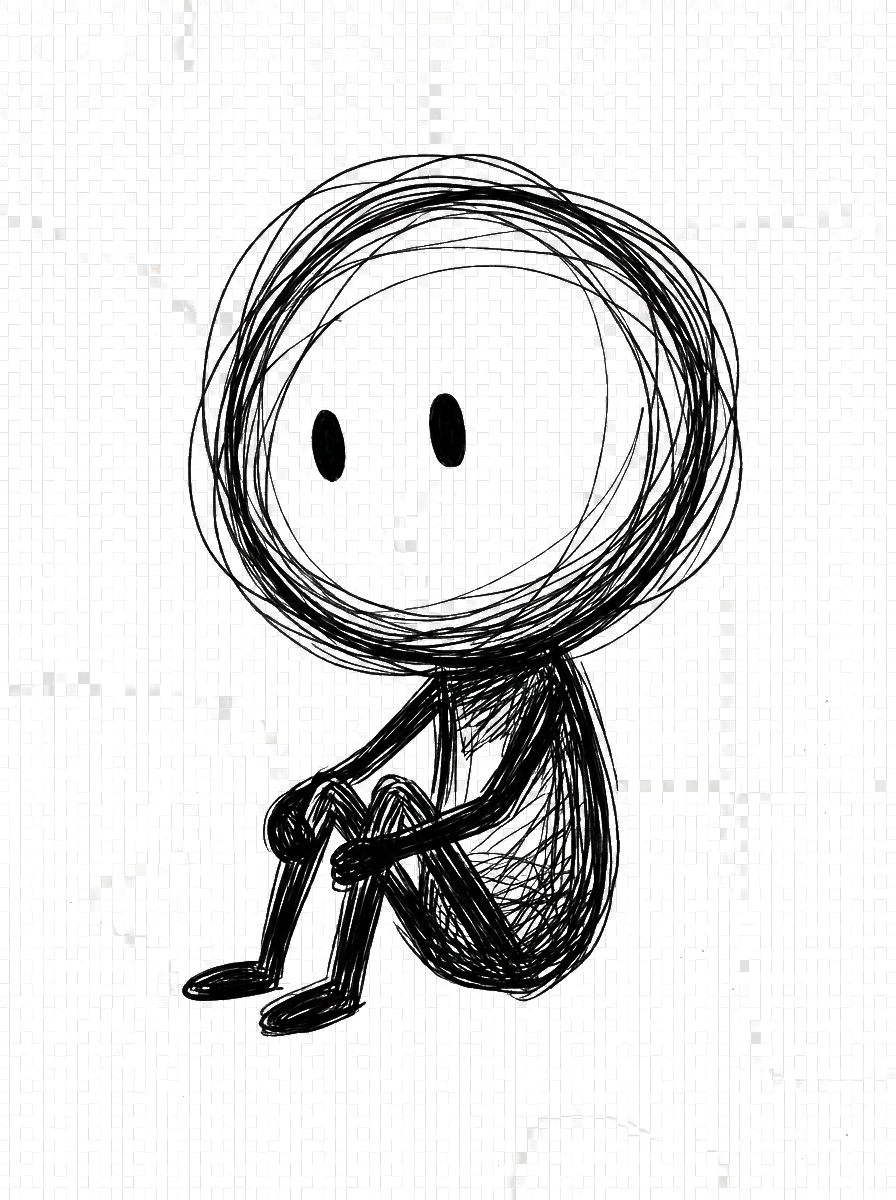
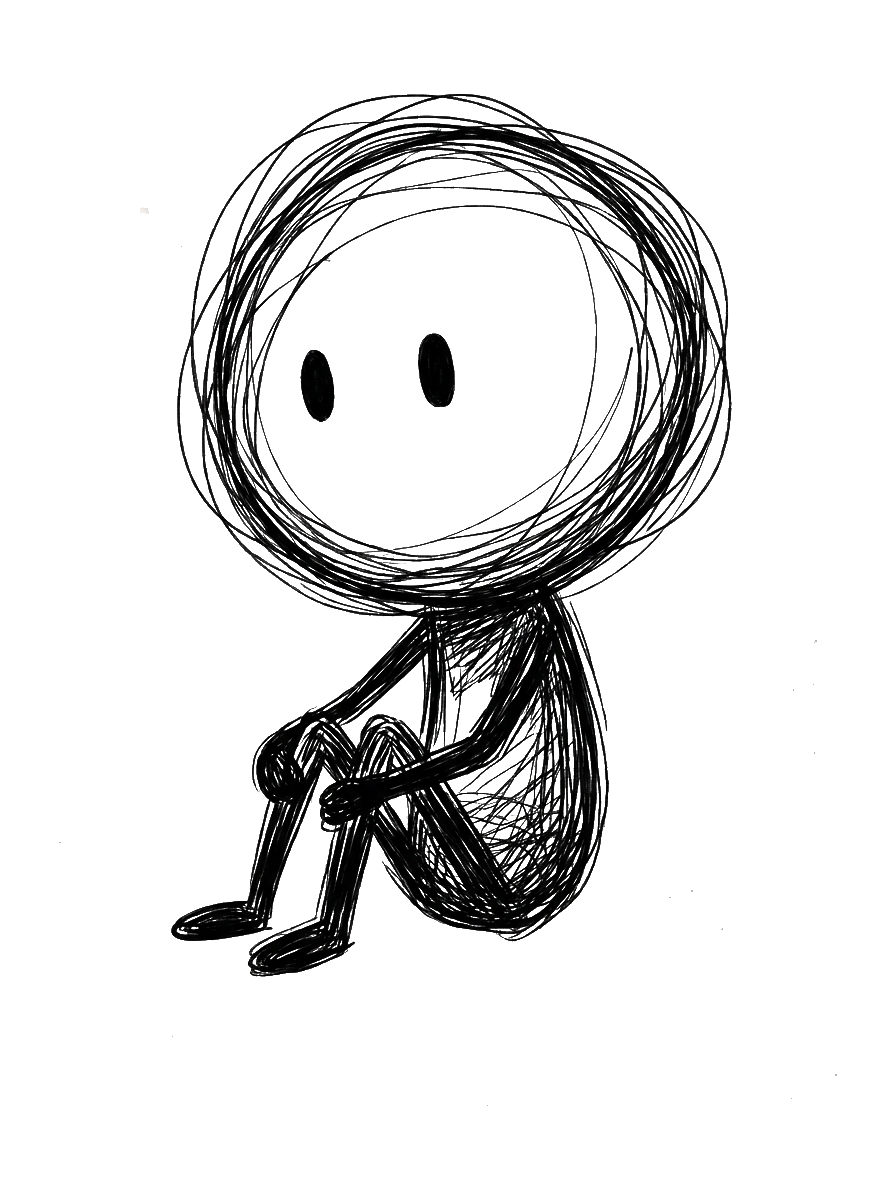
Fix Rabisco character asset transparency and centering
The first alpha-reconstruction pass used flood-fill from the canvas
border, which never reaches background pockets enclosed by the
character's own linework (e.g. inside the head circle) — those stayed
wrongly opaque, turning a hollow line-art sketch into a solid silhouette
in places. Replaced with per-pixel grayscale-value classification (no
connectivity), which handles enclosed background correctly since it
doesn't care where a pixel sits, plus trim-and-recenter to fix the
off-center content each asset had.

Added apps/worker/src/rabisco/fix-character-alpha.ts (npm run
rabisco:fix-alpha) as a reusable step for any future asset, following
the same per-pipeline script convention as christian:seed-bible.

diff --git a/apps/worker/src/rabisco/fix-character-alpha.ts b/apps/worker/src/rabisco/fix-character-alpha.ts
@@ -1,0 +1,136 @@
+import fsp from 'node:fs/promises';
+import path from 'node:path';
+import { fileURLToPath } from 'node:url';
+import { repoRoot } from '@editor-video/core';
+import sharp from 'sharp';
+
+/**
+ * Corrige assets do Rabisco gerados por IA que "desenharam" o quadriculado de
+ * transparência como pixels RGB opacos em vez de emitir alpha real — e
+ * recentraliza o personagem no canvas.
+ *
+ * Uso: npm run rabisco:fix-alpha [-- arquivo1.png arquivo2.png ...]
+ * Sem argumentos, roda contra todos os PNGs em
+ * apps/web/public/characters/rabisco/actions/.
+ *
+ * Classificação por tom de cinza, sem conectividade: uma primeira versão deste
+ * script usava flood-fill a partir da borda do canvas (só vira transparente o
+ * que está "conectado" ao fundo), pensando em evitar apagar por engano algum
+ * tom de cinza que aparecesse *dentro* do personagem. Na prática essa arte é
+ * só traço de tinta sobre fundo transparente — não tem preenchimento colorido
+ * nem sombreado interno — então não existe esse risco, e a conectividade
+ * criava um bug bem pior: qualquer área vazada *cercada* pelo próprio traço
+ * (o interior do círculo da cabeça, o vão entre pernas cruzadas) nunca é
+ * alcançada a partir da borda, então ficava errdo mente sólida/opaca em vez de
+ * transparente. A classificação por tom evita isso: um pixel é fundo se o tom
+ * de cinza dele é claro o bastante, não importa onde esteja na imagem.
+ */
+
+/** Abaixo disso: tinta (opaco). Acima: fundo (transparente). Entre os dois: rampa suave. */
+const INK_CUTOFF = 120;
+const BG_CUTOFF = 150;
+
+async function fixFile(file: string): Promise<void> {
+  const img = sharp(file);
+  const { data, info } = await img.raw().ensureAlpha().toBuffer({ resolveWithObject: true });
+  const { width, height, channels } = info;
+
+  // Placeholder 1x1 transparente — nada pra corrigir.
+  if (width * height <= 4) {
+    console.log(`ignorado (placeholder): ${path.relative(repoRoot, file)}`);
+    return;
+  }
+
+  const n = width * height;
+  const rgba = Buffer.alloc(n * 4);
+
+  for (let i = 0; i < n; i++) {
+    const idx = i * channels;
+    const r = data[idx]!;
+    const g = data[idx + 1]!;
+    const b = data[idx + 2]!;
+    const grayscale = Math.abs(r - g) <= 6 && Math.abs(g - b) <= 6 && Math.abs(r - b) <= 6;
+    const value = (r + g + b) / 3;
+
+    let alpha: number;
+    if (!grayscale) {
+      alpha = 255; // essa arte não tem cor — qualquer pixel colorido é conteúdo real, preserva.
+    } else if (value <= INK_CUTOFF) {
+      alpha = 255;
+    } else if (value >= BG_CUTOFF) {
+      alpha = 0;
+    } else {
+      alpha = Math.round((255 * (BG_CUTOFF - value)) / (BG_CUTOFF - INK_CUTOFF));
+    }
+
+    rgba[i * 4] = r;
+    rgba[i * 4 + 1] = g;
+    rgba[i * 4 + 2] = b;
+    rgba[i * 4 + 3] = alpha;
+  }
+
+  // Bounding box do conteúdo opaco, calculado direto do alpha (não usar sharp .trim() —
+  // seu critério de similaridade ao pixel do canto não é confiável para PNGs com alpha).
+  const ALPHA_BBOX_THRESHOLD = 100;
+  let minX = width;
+  let maxX = -1;
+  let minY = height;
+  let maxY = -1;
+  for (let y = 0; y < height; y++) {
+    for (let x = 0; x < width; x++) {
+      if (rgba[(y * width + x) * 4 + 3]! <= ALPHA_BBOX_THRESHOLD) continue;
+      if (x < minX) minX = x;
+      if (x > maxX) maxX = x;
+      if (y < minY) minY = y;
+      if (y > maxY) maxY = y;
+    }
+  }
+  if (maxX < minX || maxY < minY) {
+    throw new Error(`${file}: nenhum pixel opaco encontrado após a correção de alpha.`);
+  }
+
+  const tw = maxX - minX + 1;
+  const th = maxY - minY + 1;
+
+  const cropped = await sharp(rgba, { raw: { width, height, channels: 4 } })
+    .extract({ left: minX, top: minY, width: tw, height: th })
+    .png()
+    .toBuffer();
+
+  await sharp({
+    create: { width, height, channels: 4, background: { r: 0, g: 0, b: 0, alpha: 0 } },
+  })
+    .composite([
+      {
+        input: cropped,
+        left: Math.round((width - tw) / 2),
+        top: Math.round((height - th) / 2),
+      },
+    ])
+    .png()
+    .toFile(file);
+
+  console.log(`corrigido: ${path.relative(repoRoot, file)} (conteúdo ${tw}x${th} recentralizado em ${width}x${height})`);
+}
+
+async function main(): Promise<void> {
+  const args = process.argv.slice(2);
+  let files = args;
+  if (files.length === 0) {
+    const dir = path.join(repoRoot, 'apps', 'web', 'public', 'characters', 'rabisco', 'actions');
+    const entries = await fsp.readdir(dir);
+    files = entries.filter((name) => name.endsWith('.png')).map((name) => path.join(dir, name));
+  }
+
+  for (const file of files) {
+    await fixFile(path.isAbsolute(file) ? file : path.resolve(process.cwd(), file));
+  }
+}
+
+const isMain = process.argv[1] === fileURLToPath(import.meta.url);
+if (isMain) {
+  main().catch((err: unknown) => {
+    console.error(err);
+    process.exitCode = 1;
+  });
+}

diff --git a/apps/web/public/characters/rabisco/README.md b/apps/web/public/characters/rabisco/README.md
@@ -19,7 +19,18 @@ Estado atual (por arquivo em `actions/`):
 
 Nota técnica: se for gerar novas poses via um modelo de imagem que "desenha"
 o fundo xadrez de transparência em vez de emitir alpha real (isso aconteceu
-na primeira leva), rode uma remoção de fundo dedicada (ex.: `remove_background`
-da Higgsfield, ou o script de limiarização por proximidade de cor usado para
-corrigir os 3 arquivos atuais) antes de salvar o PNG final — não confie no
-canal alpha sem checar com `magick identify -verbose` (`Alpha: min/max`).
+na primeira leva), rode:
+
+```
+npm run rabisco:fix-alpha --workspace=@editor-video/worker
+```
+
+(`apps/worker/src/rabisco/fix-character-alpha.ts`) — reconstrói o alpha por
+tom de cinza (claro = fundo, escuro = tinta, com rampa suave só na borda) e
+recentraliza o personagem no canvas. Não usa flood-fill/conectividade de
+propósito: essa arte é só traço de tinta sobre fundo transparente, sem
+preenchimento interno, então uma primeira versão do script que só zerava
+pixels *conectados* à borda do canvas deixava sólido (errado) qualquer vão
+cercado pelo próprio traço, como o interior do círculo da cabeça. Nunca
+confie no canal alpha de um asset novo sem checar com
+`magick identify -verbose` (`Alpha: min/max`) antes de commitar.
